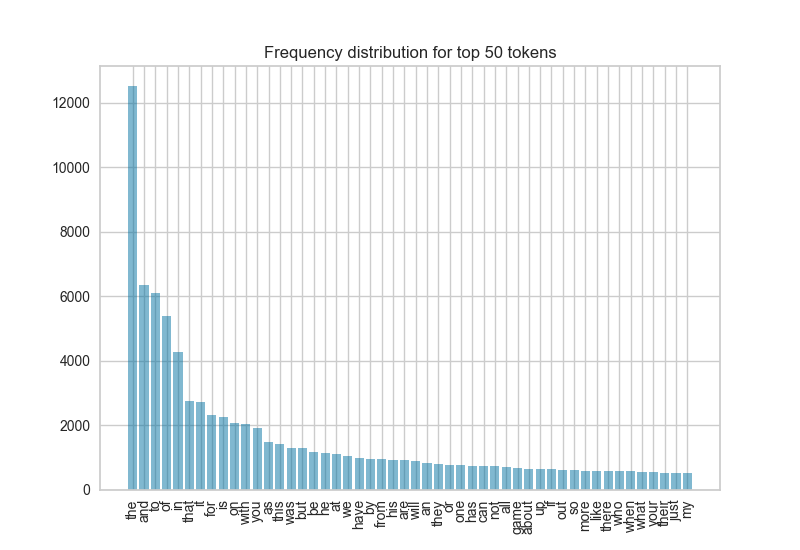
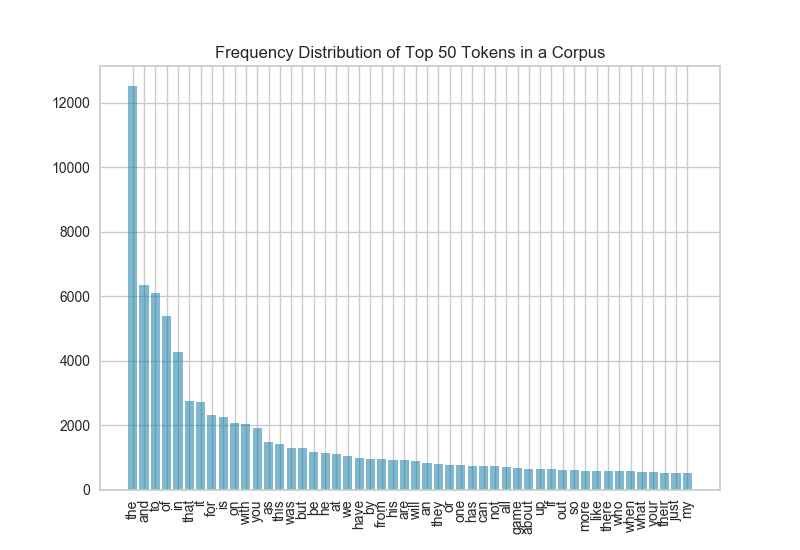
titles and other details

Changed region(s): [[0.2812, 0.0618, 0.75, 0.1236]]

diff --git a/poster/gallery.py b/poster/gallery.py
@@ -183,6 +183,7 @@ def radviz(ax):
 
     # Instantiate and fit the visualizer
     visualizer = RadViz(ax=ax, classes=classes, features=features)
+    visualizer.title = "RadViz of Features to Predict Room Occupancy"
     visualizer.fit(X, y)
     visualizer.transform(X)
     return visualizer
@@ -201,6 +202,7 @@ def pcoords(ax):
 
     # Instantiate and fit the visualizer
     visualizer = ParallelCoordinates(ax=ax, classes=classes, features=features)
+    visualizer.title = "Parallel Coordinates of Features to Predict Room Occupancy"
     visualizer.fit(X, y)
     visualizer.transform(X)
     return visualizer
@@ -222,6 +224,7 @@ def rank2d(ax, algorithm='pearson'):
 
     # Instantiate and fit the visualizer
     visualizer = Rank2D(features=features, algorithm=algorithm)
+    visualizer.title = "2D Ranking of Pairs of Features by {}".format(algorithm.title())
     visualizer.fit(X, y)
     visualizer.transform(X)
     return visualizer
@@ -360,6 +363,7 @@ def class_balance(ax):
 
     estimator = RandomForestClassifier()
     visualizer = ClassBalance(estimator, ax=ax, classes=classes)
+    visualizer.title = "Class Balance of Room Occupancy Target"
     visualizer.fit(X_train, y_train)
     visualizer.score(X_test, y_test)
     return visualizer
@@ -380,6 +384,7 @@ def elbow(ax):
     X = make_blobs()
     X, y = make_blobs(centers=8)
     visualizer = KElbowVisualizer(KMeans(), ax=ax, k=(2,12))
+    visualizer.title = "Silhouette Ranked Elbow Curve for K-Means on 8 Blob Dataset"
     visualizer.fit(X)
     return visualizer
 
@@ -399,6 +404,7 @@ def silhouette(ax):
     X = make_blobs()
     X, y = make_blobs(centers=8)
     visualizer = SilhouetteVisualizer(KMeans(6), ax=ax)
+    visualizer.title = "Silhouette Clusters for K-Means (k=6) on an 8 Blob Dataset"
     visualizer.fit(X)
     return visualizer
 
@@ -419,6 +425,7 @@ def alphas(ax):
 
     estimator = RidgeCV(scoring="neg_mean_squared_error")
     visualizer = AlphaSelection(estimator, ax=ax)
+    visualizer.title = ""
     visualizer.fit(X, y)
     return visualizer
 
@@ -432,7 +439,12 @@ def freqdist(ax, stopwords=None):
     freq = CountVectorizer(input='filename', stop_words=stopwords)
     X = freq.fit_transform(X)
 
+    title = "Frequency Distribution of Top 50 Tokens in a Corpus"
+    if stopwords:
+        title += " (Without Stopwords)"
+
     visualizer = FreqDistVisualizer(ax=ax)
+    visualizer.title = title
     visualizer.fit(X, freq.get_feature_names())
     return visualizer
 
@@ -447,6 +459,7 @@ def tsne(ax):
     X = freq.fit_transform(X)
 
     visualizer = TSNEVisualizer(ax=ax)
+    visualizer.title = "t-SNE Projection of the Hobbies Corpus"
     visualizer.fit(X, y)
     return visualizer
 
@@ -460,6 +473,8 @@ def postag(ax, text="nursery"):
     from nltk import pos_tag, word_tokenize
     from yellowbrick.text import PosTagVisualizer
 
+    title = "Highligthed Parts of Speech Tags of the {} Text".format(text.title())
+
     text = {
         'nursery': nursery_rhyme,
         'algebra': algebra,
@@ -468,6 +483,7 @@ def postag(ax, text="nursery"):
 
     text = pos_tag(word_tokenize(text))
     visualizer = PosTagVisualizer(ax=ax)
+    visualizer.title = title
     visualizer.fit_transform(text)
     return visualizer
 
@@ -480,8 +496,8 @@ def postag(ax, text="nursery"):
 FIGURES = {
     # "occupancy_radviz": radviz,
     # "occupancy_parallel_coordinates": pcoords,
-    # "credit_default_covariance_rank2d": partial(rank2d, algorithm='covariance'),
-    # "credit_default_pearson_rank2d": partial(rank2d, algorithm='pearson'),
+    "credit_default_covariance_rank2d": partial(rank2d, algorithm='covariance'),
+    "credit_default_pearson_rank2d": partial(rank2d, algorithm='pearson'),
     # "concrete_ridgecv_residuals": residuals,
     # "concrete_lassocv_prediction_error": perror,
     # "game_nbayes_classification_report": classification_report,
@@ -491,12 +507,12 @@ FIGURES = {
     # "eight_blobs_kmeans_elbow_curve": elbow,
     # "eight_blobs_kmenas_silhouette": silhouette,
     # "energy_ridgecv_alphas": alphas,
-    # "hobbies_freq_dist": partial(freqdist, stopwords='english'),
-    # "hobbies_freq_dist_stopwords": partial(freqdist, stopwords=None),
+    "hobbies_freq_dist": partial(freqdist, stopwords='english'),
+    "hobbies_freq_dist_stopwords": partial(freqdist, stopwords=None),
     # "hobbies_tnse": tsne,
-    "nursery_nltk_pos_tag": partial(postag, text="nursery"),
-    "algebra_nltk_pos_tag": partial(postag, text="algebra"),
-    "recipe_nltk_pos_tag": partial(postag, text="recipe"),
+    # "nursery_nltk_pos_tag": partial(postag, text="nursery"),
+    # "algebra_nltk_pos_tag": partial(postag, text="algebra"),
+    # "recipe_nltk_pos_tag": partial(postag, text="recipe"),
 }
 
 

diff --git a/poster/README.md b/poster/README.md
@@ -38,11 +38,11 @@ Text data is notoriously high-dimensional and hard to visualize. Yellowbrick can
 
 Visualize important word features, before stopwords removal &hellip;
 
-![hobbies_freq_dist](figures/hobbies_freq_dist.png)
+![hobbies_freq_dist_stopwords](figures/hobbies_freq_dist_stopwords.png)
 
 &hellip; and after!
 
-![hobbies_freq_dist_stopwords](figures/hobbies_freq_dist_stopwords.png)
+![hobbies_freq_dist](figures/hobbies_freq_dist.png)
 
 ### t-SNE
 
